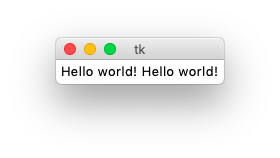
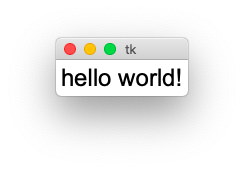
fixed intro

Changed region(s): [[0.1721, 0.2278, 0.8033, 0.5823], [0.2008, 0.2278, 0.2295, 0.2532]]

diff --git a/docs/intro/intro2.py b/docs/intro/intro2.py
@@ -4,8 +4,7 @@ class App:
     """Define the application class."""
     def __init__(self):
         self.root = tk.Tk()
-        self.root.title('App Demo')
-        tk.Label(self.root, text='Hello Tkinter! ' * 3).pack()
+        tk.Label(self.root, text='hello world!', font='Arial 24').pack()
 
     def run(self):
         """Run the main loop."""

diff --git a/docs/tree/inspector.py b/docs/tree/inspector.py
@@ -1,0 +1,20 @@
+from tklib import *
+
+App()
+b = Button()
+
+att = dir(b)
+print(len(att))
+
+for a in att:
+    s1 = f'b.{a}()'
+    try:
+        res = eval(s1)
+    except:
+        res = ''
+    print(a, s1, res, sep='\t')
+
+print(b.winfo_width())
+print(b.winfo_x())
+print(b.winfo_screenwidth())
+print(b.winfo_screenheight())

diff --git a/docs/intro/intro1.py b/docs/intro/intro1.py
@@ -1,5 +1,5 @@
 import tkinter as tk
 
 root = tk.Tk()
-tk.Label(root, text='Hello world! Hello world!').grid()
+tk.Label(root, text='hello world!', font='Arial 24').grid()
 root.mainloop()

diff --git a/docs/intro/intro.rst b/docs/intro/intro.rst
@@ -27,7 +27,7 @@ Then we create the ``Tk()`` root widget which becomes the root for all other wid
 Then we create a ``Label()`` widget which has *root* as parent and *Hello world* as text attribute. 
 To make the label appear on the window, we must call the ``grid()`` placement method::
 
-    tk.Label(root, text='Hello world! Hello world!').grid()
+    tk.Label(root, text='hello world!', font='Arial 24').grid()
 
 Finally we call the Tk ``mainloop()`` method which keeps the window open until the **close** button is clicked::
 
@@ -50,8 +50,7 @@ The constructor method ``__init__`` creates the root and the label::
 
     def __init__(self):
         self.root = tk.Tk()
-        self.root.title('App Demo')
-        tk.Label(self.root, text='Hello Tkinter! ' * 3).pack()
+        tk.Label(self.root, text='hello world!', font='Arial 24').pack()
 
 The ``run`` method starts the main loop::
 
@@ -67,7 +66,7 @@ Finally we instantiate the App and run it::
 
 This is the result:
 
-.. image:: intro2.png
+.. image:: intro1.png
 
 .. literalinclude:: intro2.py
 
